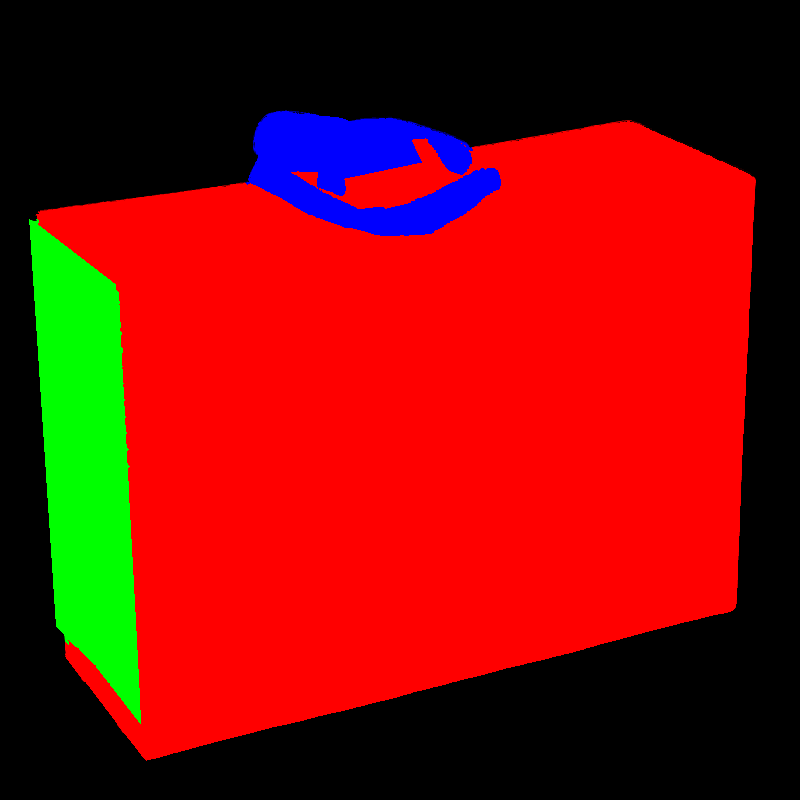
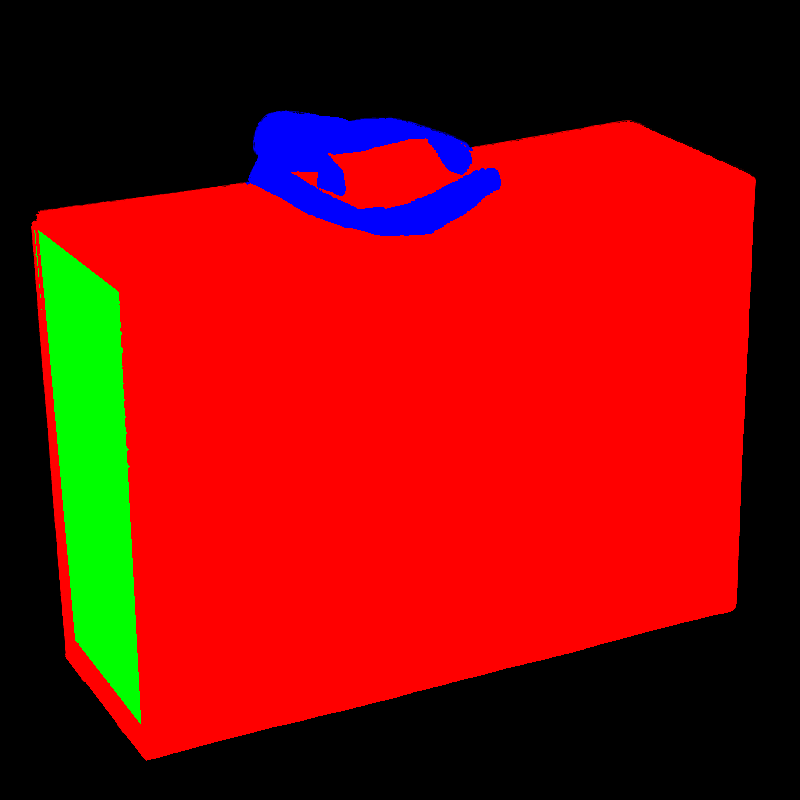
Reverted to commit f0205e1e4e8c0d3259c9b28abfe535a6b1328e7b

diff --git a/scripts/mockup-silhouette-cleanup.py b/scripts/mockup-silhouette-cleanup.py
@@ -23,7 +23,7 @@ from pathlib import Path
 import numpy as np
 from PIL import Image
 from scipy.ndimage import (binary_dilation, binary_erosion, binary_fill_holes,
-                           distance_transform_edt, gaussian_filter, label)
+                           distance_transform_edt, label)
 
 ROOT = Path(__file__).resolve().parents[1]
 MOCK = ROOT / 'public/mockups'
@@ -36,15 +36,6 @@ def read(path, mode='RGBA'):
 
 def u8(a):
     return np.rint(np.clip(a, 0, 1) * 255).astype(np.uint8)
-
-
-def soft_polygon(shape, points, feather=1.0):
-    """Small hand-authored correction with a photographic anti-aliased edge."""
-    canvas = Image.new('L', (shape[1], shape[0]), 0)
-    from PIL import ImageDraw
-    ImageDraw.Draw(canvas).polygon(points, fill=255)
-    patch = np.asarray(canvas, dtype=np.float32) / 255
-    return gaussian_filter(patch, feather) if feather else patch
 
 
 def largest_component(mask):
@@ -121,17 +112,6 @@ def clean_bow():
     zone = read(base / 'zone_map.png')
     stack = zone[..., :3].copy()
 
-    # The left SIDE mask originally covered only the inset panel. The narrow
-    # photographed frame around that panel was consequently painted MAIN red.
-    # Assign only this fixed, source-specific left-plane polygon to SIDE. The
-    # one-pixel feather follows the photographed edge and keeps antialiasing.
-    side_patch = soft_polygon(stack.shape[:2],
-                              [(51, 247), (219, 398), (225, 613), (72, 438)],
-                              feather=.65)
-    side_patch *= src[..., 3]
-    stack[..., 1] = np.maximum(stack[..., 1], side_patch)
-    stack[..., 0] *= 1 - side_patch
-
     photo = src[..., 3]
     matte = np.minimum(np.clip(photo, 0, 1), silhouette_from_masks(stack, src))
     matte = np.where(largest_component(matte > 0.02), matte, 0.0)
@@ -165,23 +145,6 @@ def clean_bag():
         read(base / 'masks/mask_side.png', 'L'),
         read(base / 'masks/mask_handles.png', 'L'),
     ])
-
-    # The short upper bridge is part of the rear fabric handle, not the box
-    # top. It was omitted by the original HANDLES mask, leaving a bright MAIN
-    # trapezoid inside black handles. This patch is deliberately restricted to
-    # the user-marked bridge and does not expand the outer handle silhouette.
-    handle_patch = soft_polygon(masks.shape[:2],
-                                [(314, 148), (407, 132), (421, 162), (330, 181)],
-                                feather=.75)
-    masks[..., 2] = np.maximum(masks[..., 2], handle_patch)
-    masks[..., 0] *= 1 - handle_patch
-    # SIDE owns the complete photographed left plane, including its narrow
-    # folded frame. This fixed patch removes the remaining MAIN-coloured strip.
-    side_patch = soft_polygon(masks.shape[:2],
-                              [(28, 217), (115, 284), (139, 708), (55, 626)],
-                              feather=.65)
-    masks[..., 1] = np.maximum(masks[..., 1], side_patch)
-    masks[..., 0] *= 1 - side_patch
     mix = read(web / 'mix.png', 'RGB')
 
     matte = silhouette_from_masks(masks, src)

diff --git a/scripts/bag-box-export-web-maps.py b/scripts/bag-box-export-web-maps.py
@@ -6,7 +6,6 @@ public/mockups/bag_box/default/photo_closed_45/web/.
   python3 scripts/bag-box-export-web-maps.py
 """
 from pathlib import Path
-import runpy
 import sys
 
 import numpy as np
@@ -62,10 +61,6 @@ def main():
     Image.fromarray(np.dstack([u8(d['alpha']), u8(d['slots']), u8((slot_light - .16) / .12)])).save(OUT / 'mix.png')
     Image.fromarray(u8((d['detail'] / .11 + 1) / 2)).save(OUT / 'detail.png')
     Image.fromarray(u8(d['src'])).save(OUT / 'source.png')
-    # Reapply reviewed local ownership fixes after every export so rebuilding
-    # cannot restore MAIN strips around SIDE or the omitted handle bridge.
-    cleanup = runpy.run_path(str(Path(__file__).resolve().parent / 'mockup-silhouette-cleanup.py'))
-    cleanup['clean_bag']()
     print('written to', OUT)
 
 

diff --git a/roadmap.md b/roadmap.md
@@ -35,4 +35,3 @@
 - [x] Диагностика контрастными цветами (bow: красный/белый/чёрный, bag: бирюза/золото/чёрный, тёмно-синий/белый/золото)
 - [x] Цвет ограничен реальным силуэтом, убран ореол и полоса основного цвета на кромках (scripts/mockup-silhouette-cleanup.py)
 - [x] Пересборка zone_map / weights / mix, cache-bust v=20260916, повторные тесты пройдены
-- [x] Точечно исправить отмеченные зоны: полный SIDE-контур bag/bow и внутренний мост ручки; повторить контрастный тест
